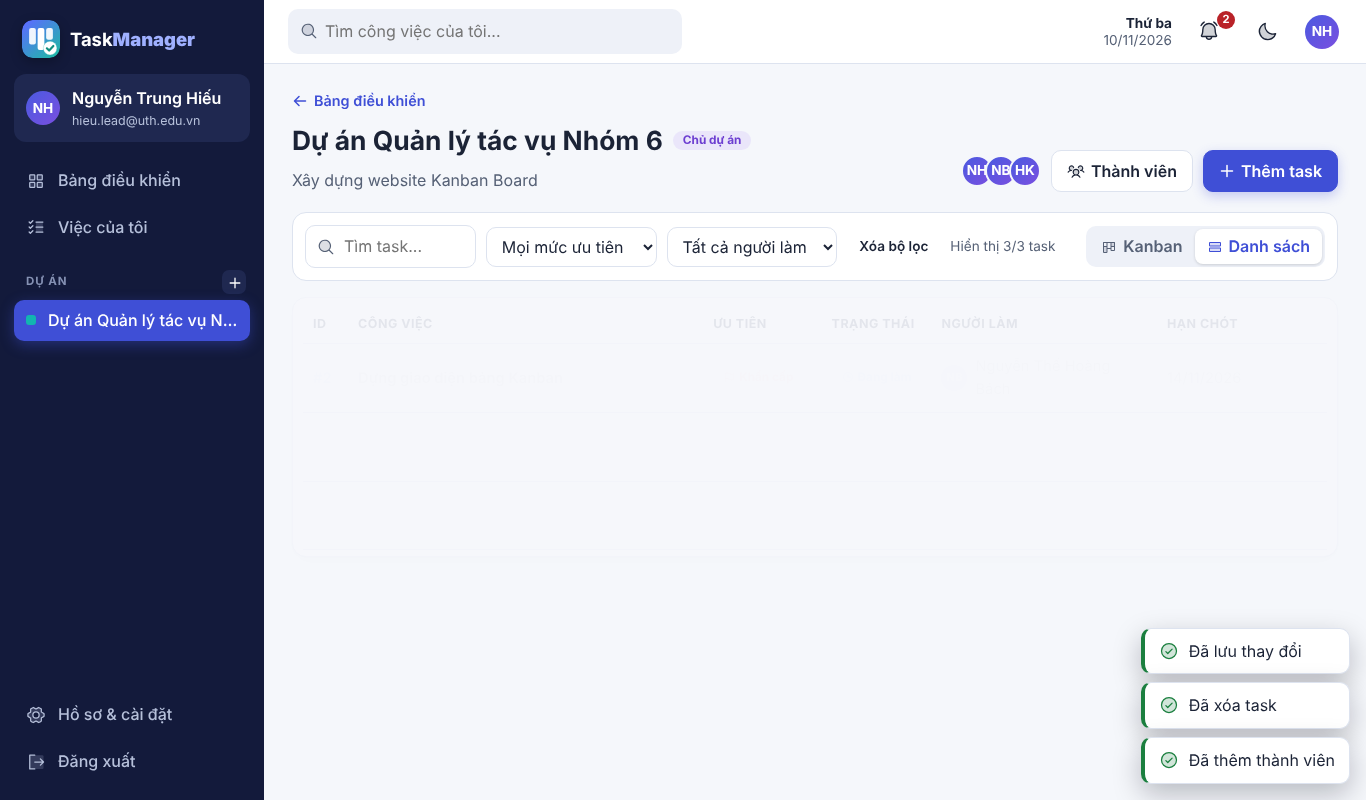
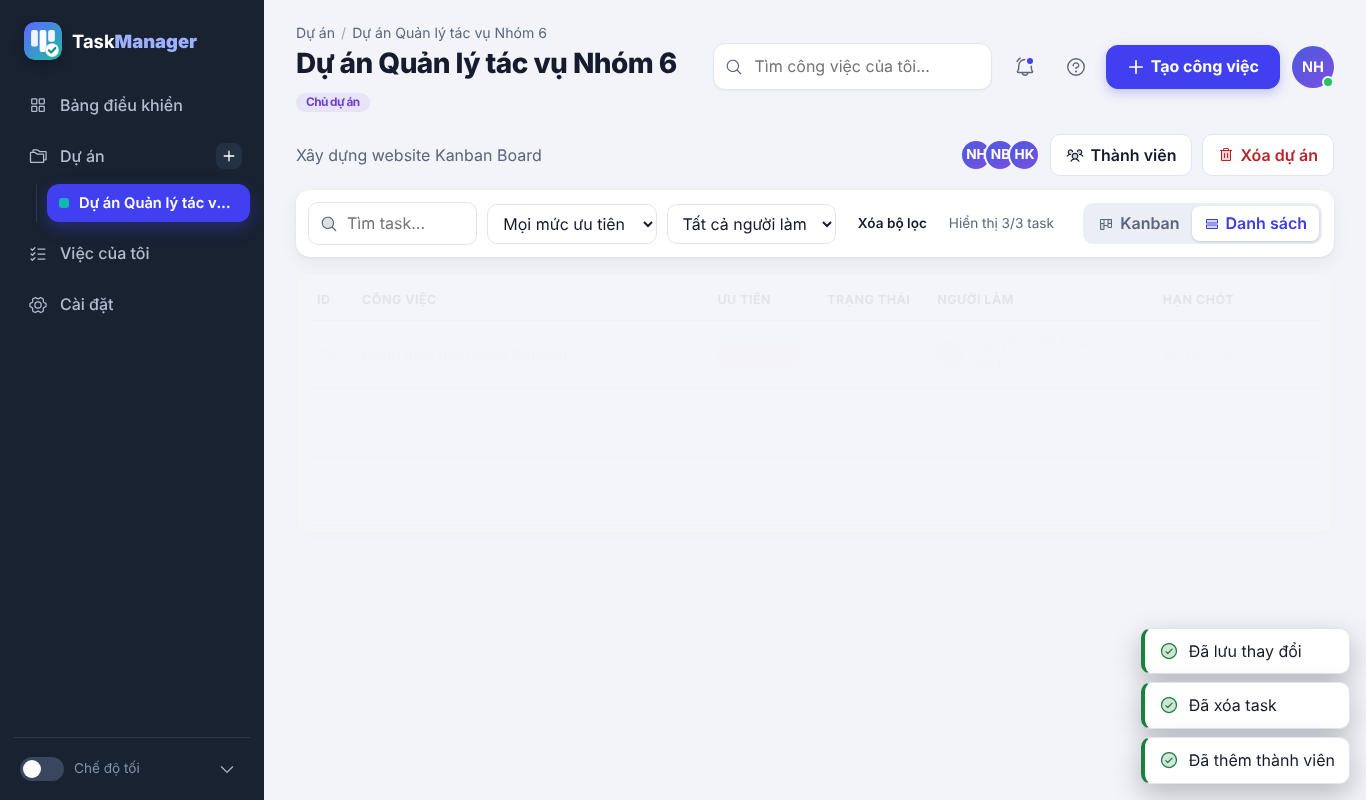
Add files via upload

diff --git a/frontend/css/style.css b/frontend/css/style.css
@@ -1,16 +1,16 @@
 /* ===== Design tokens ===== */
 :root{
-  --bg:#f5f7fb;--panel:#ffffff;--panel2:#eef1f8;--border:#dde3ef;--text:#1b2336;--muted:#566176;
-  --primary:#3f4fd6;--primary-btn:#3f4fd6;--primary-h:#3342b8;--primary-soft:rgba(63,79,214,.10);--on-primary:#fff;
+  --bg:#f3f4f9;--panel:#ffffff;--panel2:#eceef5;--border:#e1e5ee;--text:#161b2e;--muted:#5b657b;
+  --primary:#3d3de6;--primary-btn:#4040f0;--primary-h:#3232d4;--primary-soft:rgba(64,64,240,.10);--on-primary:#fff;
   --danger:#b92228;--ok:#1b7f3f;--warn:#975a00;--purple:#6d3fd1;--info:#1d5fd6;--teal:#0f8f84;--focus:#f59e0b;
-  --side:#131a3b;--side2:#1f2850;--side-text:#b6c0da;--side-muted:#8591b3;
+  --side:#192231;--side2:#243044;--side-text:#b4bdd0;--side-muted:#8591ab;
   --radius:14px;--shadow:0 1px 2px rgba(20,30,70,.05),0 6px 18px rgba(20,30,70,.07);
 }
 [data-theme="dark"]{
   --bg:#0b1020;--panel:#141a2e;--panel2:#1c2440;--border:#2a3556;--text:#e8ecf7;--muted:#9aa6c2;
   --primary:#8d9bff;--primary-btn:#5666e8;--primary-h:#6a79f0;--primary-soft:rgba(141,155,255,.15);--on-primary:#fff;
   --danger:#ff7b80;--ok:#52d27a;--warn:#f5b94a;--purple:#b69cff;--info:#7fb0ff;--teal:#2ed0cb;--focus:#fbbf24;
-  --side:#0a0e22;--side2:#161d3d;--side-text:#aeb8d0;--side-muted:#7c88a8;
+  --side:#0d1320;--side2:#18213a;--side-text:#aeb8d0;--side-muted:#7c88a8;
   --shadow:0 1px 2px rgba(0,0,0,.4),0 8px 22px rgba(0,0,0,.35);
 }
 *{box-sizing:border-box}
@@ -23,38 +23,10 @@ h1{font-size:1.65rem}h2{font-size:1.1rem}h3{font-size:1rem}
 
 /* ===== App shell: sidebar + main ===== */
 .app{display:grid;grid-template-columns:264px minmax(0,1fr);min-height:100vh}
-.sidebar{background:var(--side);color:var(--side-text);position:sticky;top:0;height:100vh;display:flex;flex-direction:column;padding:20px 14px 14px;overflow-y:auto}
-.side-brand{display:flex;align-items:center;gap:10px;color:#fff;font-weight:700;font-size:1.15rem;padding:0 8px 16px}
-.side-brand b{color:#9fb0ff}
 .logo-img{width:38px;height:38px;border-radius:11px;flex:none;display:block;box-shadow:0 4px 12px rgba(0,0,0,.25)}
-.side-user{display:flex;align-items:center;gap:12px;width:100%;text-align:left;border:0;background:var(--side2);color:#fff;border-radius:12px;padding:12px;cursor:pointer;margin-bottom:16px;font:inherit}
-.side-user:hover{background:rgba(255,255,255,.1)}
-.side-user .avatar{width:44px;height:44px;font-size:.95rem}
-.side-user .who{min-width:0}
-.side-user .name{font-weight:600;white-space:nowrap;overflow:hidden;text-overflow:ellipsis}
-.side-user .mail{font-size:.78rem;color:var(--side-text);white-space:nowrap;overflow:hidden;text-overflow:ellipsis}
-.side-link{display:flex;align-items:center;gap:12px;width:100%;padding:10px 12px;margin-bottom:2px;border-radius:10px;border:0;background:transparent;color:var(--side-text);font:inherit;font-weight:500;cursor:pointer;text-align:left;transition:.15s}
-.side-link:hover{background:var(--side2);color:#fff}
-.side-link.active{background:var(--primary-btn);color:#fff;box-shadow:0 4px 14px rgba(63,79,214,.4)}
-.side-link .ic{width:20px;text-align:center}
-.side-title{display:flex;justify-content:space-between;align-items:center;margin:18px 4px 6px 12px;font-size:.72rem;letter-spacing:.08em;color:var(--side-muted);font-weight:700}
-.side-add{border:0;background:var(--side2);color:#fff;width:24px;height:24px;border-radius:7px;cursor:pointer;font-size:1rem;line-height:1}
-.side-add:hover{background:var(--primary-btn)}
-.side-projects .side-link{padding:8px 12px}
 .pdot{width:10px;height:10px;border-radius:3px;flex:none}
-.side-spacer{flex:1;min-height:12px}
-.side-empty{padding:6px 12px;font-size:.85rem;color:var(--side-muted)}
 .main-col{min-width:0;display:flex;flex-direction:column}
-.topbar{position:sticky;top:0;z-index:30;height:64px;display:flex;align-items:center;gap:14px;padding:0 24px;background:var(--panel);border-bottom:1px solid var(--border)}
-.btn.menu-btn{display:none}
-.search{flex:1;max-width:460px;position:relative}
-.search input{padding-left:36px;background:var(--panel2);border-color:transparent;border-radius:10px}
-.search span{position:absolute;left:12px;top:50%;transform:translateY(-50%);opacity:.6}
-.topbar .grow{flex:1}
-.date-chip{font-size:.85rem;color:var(--muted);text-align:right;line-height:1.2}
-.date-chip b{display:block;color:var(--text)}
 .scrim{position:fixed;inset:0;background:rgba(2,6,23,.55);z-index:55}
-.container{padding:26px 28px 60px;max-width:1500px;width:100%}
 @media(max-width:900px){
   .app{grid-template-columns:minmax(0,1fr)}
   .sidebar{position:fixed;left:0;top:0;bottom:0;width:272px;transform:translateX(-102%);transition:transform .2s;z-index:60}
@@ -129,10 +101,6 @@ input:disabled,select:disabled,textarea:disabled{opacity:.7}
 .b-owner{background:rgba(139,92,246,.10);color:var(--purple)}
 .b-leader{background:rgba(245,159,0,.10);color:var(--warn)}
 .b-member{background:rgba(107,119,140,.10);color:var(--muted)}
-.p-low{background:rgba(47,179,68,.10);color:var(--ok)}
-.p-medium{background:rgba(63,79,214,.10);color:var(--primary)}
-.p-high{background:rgba(245,159,0,.10);color:var(--warn)}
-.p-urgent{background:rgba(229,72,77,.10);color:var(--danger)}
 .s-todo{background:rgba(100,116,139,.12);color:var(--muted)}
 .s-in_progress{background:rgba(59,130,246,.10);color:var(--info)}
 .s-review{background:rgba(139,92,246,.10);color:var(--purple)}
@@ -184,23 +152,8 @@ table.tbl{width:100%;border-collapse:collapse;font-size:.92rem}
 .view-toggle button{border:0;background:transparent;color:var(--muted);font:inherit;font-weight:600;padding:5px 12px;border-radius:8px;cursor:pointer}
 .view-toggle button.active{background:var(--panel);color:var(--primary);box-shadow:0 1px 3px rgba(0,0,0,.15)}
 .board{display:grid;grid-template-columns:repeat(4,minmax(228px,1fr));gap:16px;overflow-x:auto;padding-bottom:14px;align-items:start}
-.column{background:var(--panel2);border-radius:var(--radius);display:flex;flex-direction:column;max-height:calc(100vh - 270px);min-height:220px;border:1px solid var(--border)}
-.col-head{display:flex;align-items:center;justify-content:space-between;padding:11px 14px;background:var(--c);color:#fff;border-radius:calc(var(--radius) - 1px) calc(var(--radius) - 1px) 0 0;font-weight:700}
-.col-head .count{margin-left:8px;background:rgba(255,255,255,.28);border-radius:99px;padding:0 9px;font-size:.8rem}
-.col-head .btn{color:#fff;background:rgba(255,255,255,.18);border:0;width:28px;height:28px;padding:0}
-.col-head .btn:hover{background:rgba(255,255,255,.34);color:#fff}
 .col-body{padding:10px;display:flex;flex-direction:column;gap:10px;overflow-y:auto;flex:1;min-height:90px;transition:.15s}
 .col-body.drag-over{background:var(--primary-soft);outline:2px dashed var(--primary);outline-offset:-6px}
-.task{background:var(--panel);border:1px solid var(--border);border-left:4px solid var(--prc,var(--border));border-radius:10px;padding:11px 12px;cursor:grab;transition:.12s;box-shadow:0 1px 2px rgba(16,24,40,.05);overflow:hidden}
-.task:hover{box-shadow:0 6px 16px rgba(16,24,40,.13);transform:translateY(-1px)}
-.task.dragging{opacity:.4}
-.task.pr-urgent{--prc:var(--danger)}.task.pr-high{--prc:var(--warn)}.task.pr-medium{--prc:var(--primary)}.task.pr-low{--prc:var(--ok)}
-.task-top{display:flex;justify-content:space-between;align-items:center}
-.task-id{font-size:.78rem;color:var(--muted);font-weight:600}
-.task .title{font-weight:600;margin:7px 0 9px;word-break:break-word}
-.task .meta{display:flex;align-items:center;justify-content:space-between;gap:8px;font-size:.8rem;color:var(--muted)}
-.task .meta .left{display:flex;gap:10px;align-items:center;flex-wrap:wrap}
-.overdue-strip{margin:-11px -12px 9px;padding:3px 12px;background:#b92228;color:#fff;font-size:.74rem;font-weight:700}
 .due.overdue{color:var(--danger);font-weight:700}
 .due.soon{color:var(--warn);font-weight:700}
 .drop-line{height:3px;border-radius:3px;background:var(--primary);margin:-2px 0;pointer-events:none}
@@ -252,7 +205,6 @@ input:focus-visible,select:focus-visible,textarea:focus-visible{outline:3px soli
 .search .ic{position:absolute;left:12px;top:50%;transform:translateY(-50%);color:var(--muted);pointer-events:none}
 .icon-btn{width:42px;height:42px}
 .btn{min-height:40px}.btn.sm{min-height:34px}
-.col-head .btn{min-height:0}
 .stat .icon .ic{display:block}
 .empty-state{display:flex;flex-direction:column;align-items:center;gap:6px;text-align:center;padding:30px 16px;color:var(--text)}
 .es-ic{width:68px;height:68px;border-radius:50%;background:var(--primary-soft);color:var(--primary);display:grid;place-items:center;margin-bottom:6px}
@@ -309,12 +261,7 @@ input:focus-visible,select:focus-visible,textarea:focus-visible{outline:3px soli
 .btn.primary:hover{transform:translateY(-1px);box-shadow:0 8px 18px rgba(63,79,214,.34)}
 .btn.primary:active:not(:disabled){transform:scale(.96)}
 .btn .ic{transition:transform .28s var(--ease)}
-#btn-add:hover .ic,#btn-new-project:hover .ic,#btn-side-add:hover .ic,.side-add:hover .ic{transform:rotate(90deg)}
-.side-link{transition:background-color .2s,color .2s,transform .2s var(--ease),box-shadow .2s}
-.side-link:hover{transform:translateX(3px)}
-.side-link.active:hover{transform:none}
-.side-brand .logo-img{transition:transform .4s var(--ease-spring)}
-.side-brand:hover .logo-img{transform:rotate(-8deg) scale(1.08)}
+#btn-add:hover .ic,#btn-new-project:hover .ic,.side-add:hover .ic{transform:rotate(90deg)}
 .stat,.project-card{transition:transform .25s var(--ease),box-shadow .25s}
 .stat:hover{transform:translateY(-3px);box-shadow:0 10px 24px rgba(20,30,70,.13)}
 .avatar-stack .avatar{transition:transform .2s var(--ease)}
@@ -332,12 +279,9 @@ input:focus-visible,select:focus-visible,textarea:focus-visible{outline:3px soli
 #avatar-preview .avatar{animation:popIn .4s var(--ease-spring)}
 
 /* Kanban */
-.task{transition:transform .2s var(--ease),box-shadow .2s,opacity .2s}
-.task.dragging{opacity:.5;transform:rotate(2deg) scale(1.03);box-shadow:0 16px 30px rgba(20,30,70,.25)}
 .task.settle{animation:settle .6s ease-out}
 .task.leaving{animation:leave .22s var(--ease) forwards}
 .drop-line{animation:fadeIn .12s ease}
-.col-head .count{transition:transform .2s var(--ease-spring)}
 .comment.new{animation:fadeUp .4s var(--ease)}
 
 /* Hộp thoại, thông báo, chuông */
@@ -351,7 +295,6 @@ input:focus-visible,select:focus-visible,textarea:focus-visible{outline:3px soli
 .dot-badge.bump{animation:popIn .45s var(--ease-spring)}
 .bell.ring .ic{animation:wiggle .8s ease;transform-origin:50% 12%}
 .scrim{animation:fadeIn .2s ease}
-.sidebar{transition:transform .28s var(--ease)}
 .spin-in{animation:spinIn .45s var(--ease-spring)}
 
 /* Đổi sáng/tối: màu chuyển mượt (chỉ bật trong lúc đổi để không tốn hiệu năng) */
@@ -363,3 +306,127 @@ body.leaving main.container{animation:pageOut .14s ease forwards}
 body.leaving{pointer-events:none}
 @keyframes pageOut{to{opacity:0;transform:translateY(-6px)}}
 
+
+
+/* =====================================================================
+   GIAO DIỆN THEO MẪU: thanh bên tối kiểu viên thuốc, thanh trên có tiêu đề,
+   bảng Kanban thẻ trắng bo tròn. Đặt cuối file để ghi đè các quy tắc chung phía trên.
+   ===================================================================== */
+:root{--ok-soft:#c9f1da;--ok-ink:#14663a;--warn-soft:#fde9b8;--warn-ink:#8a5300;--bad-soft:#fcd0d0;--bad-ink:#a61b1b;--card-shadow:0 1px 3px rgba(22,27,60,.06),0 6px 18px rgba(22,27,60,.06)}
+[data-theme="dark"]{--ok-soft:rgba(82,210,122,.18);--ok-ink:#7be3a0;--warn-soft:rgba(245,185,74,.18);--warn-ink:#f5c46b;--bad-soft:rgba(255,123,128,.2);--bad-ink:#ff9a9e;--card-shadow:0 1px 2px rgba(0,0,0,.4),0 8px 20px rgba(0,0,0,.3)}
+.sr-only{position:absolute;width:1px;height:1px;overflow:hidden;clip:rect(0 0 0 0);white-space:nowrap}
+.container{padding:6px 32px 60px;max-width:1600px;width:100%}
+.page-sub{margin:0 0 16px}
+.greet-sub{margin-bottom:18px}
+
+/* --- Thanh bên --- */
+.sidebar{background:var(--side);color:var(--side-text);position:sticky;top:0;height:100vh;display:flex;flex-direction:column;padding:22px 14px 14px;overflow-y:auto}
+.side-brand{display:flex;align-items:center;gap:10px;color:#fff;font-weight:700;font-size:1.15rem;padding:0 10px 22px}
+.side-brand b{color:#9fb0ff}
+.side-nav{display:flex;flex-direction:column;gap:4px}
+.side-link{display:flex;align-items:center;gap:12px;width:100%;padding:11px 14px;border-radius:12px;border:0;background:transparent;color:var(--side-text);font:inherit;font-weight:500;cursor:pointer;text-align:left}
+.side-link:hover{background:var(--side2);color:#fff}
+.side-link.active{background:var(--primary-btn);color:#fff;font-weight:600;box-shadow:0 6px 16px rgba(64,64,240,.35)}
+.side-link.active:hover{background:var(--primary-btn)}
+.sidebar .ic [opacity]{display:none}                 /* chỉ giữ nét viền cho icon, giống mẫu */
+.side-row{position:relative}
+.side-row .side-link{padding-right:44px}
+.side-add{position:absolute;right:8px;top:50%;transform:translateY(-50%);border:0;background:var(--side2);color:#fff;width:26px;height:26px;border-radius:8px;cursor:pointer;display:grid;place-items:center}
+.side-add:hover{background:var(--primary-btn)}
+.side-projects{margin:0 0 4px 22px;padding-left:10px;border-left:1px solid rgba(255,255,255,.1);display:flex;flex-direction:column;gap:2px}
+.side-projects .side-link{padding:8px 12px;font-size:.92rem;gap:10px}
+.side-projects .plabel{white-space:nowrap;overflow:hidden;text-overflow:ellipsis}
+.pdot{width:10px;height:10px;border-radius:3px;flex:none}
+.side-empty{padding:6px 12px;font-size:.85rem;color:var(--side-muted)}
+.side-spacer{flex:1;min-height:16px}
+.side-foot{position:relative;display:flex;align-items:center;gap:10px;margin-top:10px;padding:14px 6px 0;border-top:1px solid rgba(255,255,255,.1)}
+.foot-label{font-size:.85rem;color:var(--side-muted)}
+.theme-switch{position:relative;width:44px;height:24px;border-radius:99px;border:0;background:#3a465e;cursor:pointer;padding:0;flex:none;transition:background-color .2s}
+.theme-switch .knob{position:absolute;top:3px;left:3px;width:18px;height:18px;border-radius:50%;background:#fff;transition:transform .22s var(--ease,ease)}
+.theme-switch[aria-checked="true"]{background:var(--primary-btn)}
+.theme-switch[aria-checked="true"] .knob{transform:translateX(20px)}
+.foot-more{margin-left:auto;width:34px;height:34px;border-radius:10px;border:0;background:transparent;color:var(--side-text);cursor:pointer;display:grid;place-items:center}
+.foot-more:hover{background:var(--side2);color:#fff}
+.foot-more[aria-expanded="true"] .ic{transform:rotate(180deg)}
+.user-menu{position:absolute;left:0;right:0;bottom:calc(100% + 10px);background:var(--side2);border:1px solid rgba(255,255,255,.08);border-radius:14px;padding:8px;box-shadow:0 14px 30px rgba(0,0,0,.4);z-index:5;animation:scaleIn .18s var(--ease,ease);transform-origin:bottom center}
+.um-head{display:flex;gap:10px;align-items:center;padding:8px 8px 10px;margin-bottom:4px;border-bottom:1px solid rgba(255,255,255,.08)}
+.um-head .who{min-width:0}.um-head .name{color:#fff;font-weight:600;white-space:nowrap;overflow:hidden;text-overflow:ellipsis}
+.um-head .mail{font-size:.78rem;color:var(--side-text);white-space:nowrap;overflow:hidden;text-overflow:ellipsis}
+
+/* --- Thanh trên: đường dẫn + tiêu đề lớn bên trái; tìm kiếm, chuông, trợ giúp, nút chính, avatar bên phải --- */
+.topbar{position:sticky;top:0;z-index:30;display:flex;align-items:center;gap:12px;padding:22px 32px 16px;background:var(--bg)}
+.btn.menu-btn{display:none}
+.top-title{min-width:0}
+.crumb{display:flex;align-items:center;gap:6px;font-size:.88rem;color:var(--muted);white-space:nowrap}
+.crumb a{color:var(--muted)}.crumb a:hover{color:var(--primary)}
+.crumb .cur{color:var(--muted);overflow:hidden;text-overflow:ellipsis;max-width:320px}
+.crumb .sep{opacity:.55}
+.top-title h1{margin:2px 0 0;font-size:1.75rem;font-weight:800;letter-spacing:-.02em;display:flex;align-items:center;gap:12px;flex-wrap:wrap}
+.top-title h1 .ttl{min-width:0;overflow-wrap:anywhere;display:-webkit-box;-webkit-line-clamp:2;-webkit-box-orient:vertical;overflow:hidden}
+.top-title{flex:0 1 auto;max-width:48%}
+.topbar .grow{flex:1}
+.search{flex:0 1 330px;position:relative}
+.search input{padding:10px 14px 10px 40px;background:var(--panel);border:1px solid var(--border);border-radius:12px;box-shadow:0 1px 2px rgba(22,27,60,.04)}
+.topbar .ic [opacity]{display:none}
+.topbar .icon-btn,.bell{width:42px;height:42px;padding:0;border-radius:12px;color:var(--muted)}
+.bell{position:relative;display:inline-flex;align-items:center;justify-content:center}
+.dot-badge{position:absolute;top:9px;right:10px;width:10px;height:10px;min-width:0;padding:0;border-radius:50%;background:var(--primary-btn);border:2px solid var(--bg);font-size:0}
+.top-action{white-space:nowrap;flex:none;min-height:44px;padding:0 20px;border-radius:12px;font-weight:700}
+.me-btn{position:relative;border:0;background:transparent;padding:0;border-radius:50%;cursor:pointer;display:inline-flex}
+.me-btn .avatar{width:42px;height:42px;font-size:.95rem}
+.online-dot{position:absolute;right:0;bottom:0;width:12px;height:12px;border-radius:50%;background:#22c55e;border:2px solid var(--bg)}
+.help-list{display:grid;gap:12px;padding-top:12px}.help-item b{display:block}
+
+/* --- Thanh công cụ của bảng --- */
+.board-bar{display:flex;flex-wrap:wrap;align-items:center;justify-content:space-between;gap:12px;margin:0 0 14px}
+.bar-actions{display:flex;gap:10px;align-items:center;flex-wrap:wrap}
+.toolbar{border:0;box-shadow:var(--card-shadow);border-radius:14px}
+
+/* --- Nhãn ưu tiên: đỏ = Cao, cam = Trung bình, xanh = Thấp (đúng mẫu) --- */
+.p-urgent{background:#c62828;color:#fff}
+.p-high{background:var(--bad-soft);color:var(--bad-ink)}
+.p-medium{background:var(--warn-soft);color:var(--warn-ink)}
+.p-low{background:var(--ok-soft);color:var(--ok-ink)}
+.badge.p-urgent,.badge.p-high,.badge.p-medium,.badge.p-low{padding:3px 12px;font-size:.78rem}
+
+/* --- Bảng Kanban --- */
+.board{display:grid;grid-template-columns:repeat(4,minmax(215px,1fr));gap:18px;overflow-x:auto;padding:4px 4px 16px;align-items:start}
+.column{display:flex;flex-direction:column;max-height:calc(100vh - 300px);min-height:200px}
+.col-head{display:flex;align-items:center;justify-content:space-between;padding:0 2px 12px;font-weight:700;font-size:1.02rem;color:var(--text)}
+.col-head .count{margin-left:6px;font-weight:600;color:var(--muted)}
+.col-head .btn{width:32px;height:32px;min-height:0;padding:0;border-radius:9px;background:var(--panel2);border:0;color:var(--muted)}
+.col-head .btn:hover{background:var(--primary-soft);color:var(--primary)}
+.col-body{padding:4px;gap:14px;border-radius:14px}
+.task{background:var(--panel);border:0;border-radius:16px;padding:16px;cursor:grab;box-shadow:var(--card-shadow);overflow:hidden}
+.task:hover{box-shadow:0 10px 26px rgba(22,27,60,.13);transform:translateY(-2px)}
+.task.dragging{opacity:.5}
+.t-head{display:flex;justify-content:space-between;align-items:flex-start;gap:10px}
+.task .title{font-weight:700;font-size:1rem;line-height:1.35;word-break:break-word;margin:0}
+.task .desc{margin:8px 0 0;color:var(--muted);font-size:.9rem;line-height:1.45;display:-webkit-box;-webkit-line-clamp:2;-webkit-box-orient:vertical;overflow:hidden}
+.chips{margin-top:12px;display:flex;gap:6px;flex-wrap:wrap}
+.chip{display:inline-flex;padding:4px 12px;border-radius:10px;background:var(--panel2);color:var(--muted);font-size:.82rem;font-weight:600}
+.meta-line{margin-top:10px;color:var(--muted);font-size:.85rem}
+.task .meta{display:flex;align-items:center;justify-content:space-between;gap:8px;margin-top:12px;font-size:.85rem;color:var(--muted);flex-wrap:wrap}
+.due.overdue{color:var(--danger);font-weight:700}
+.due.soon{color:var(--warn);font-weight:700}
+.done-check{flex:none;width:26px;height:26px;border-radius:50%;background:#1fa463;color:#fff;display:grid;place-items:center}
+.done-check .ic{display:block}
+
+/* --- Thẻ dự án trên bảng điều khiển: nút xóa --- */
+.project-card .row-r{display:flex;align-items:center;gap:4px;flex:none}
+.proj-del{width:34px;height:34px;min-height:0;color:var(--muted)}
+.proj-del:hover{color:var(--danger);background:var(--bad-soft)}
+
+@media(max-width:1100px){.search{flex-basis:220px}}
+@media(max-width:900px){
+  .sidebar{position:fixed;left:0;top:0;bottom:0;width:272px;transform:translateX(-102%);z-index:60;transition:transform .28s var(--ease,ease)}
+  .sidebar.open{transform:none}
+  .btn.menu-btn{display:inline-flex}
+  .topbar{padding:14px 14px 10px;gap:8px}
+  .top-title h1{font-size:1.35rem}.crumb{display:none}
+  .top-help{display:none}
+  .top-action{width:42px;min-height:42px;padding:0}.top-action .lbl{display:none}
+  .container{padding:4px 14px 50px}
+  .board{grid-template-columns:repeat(4,minmax(260px,82vw))}
+}
+@media(max-width:700px){.search{display:none}}

diff --git a/frontend/board.html b/frontend/board.html
@@ -13,16 +13,12 @@
     <div class="main-col">
       <header id="topbar"></header>
       <main class="container">
-        <a href="dashboard.html" class="back-link"><i data-icon="arrow-left" data-size="16"></i> Bảng điều khiển</a>
-        <div class="page-head" style="margin-top:8px">
-          <div>
-            <h1 id="p-name" style="display:flex;align-items:center;gap:10px;flex-wrap:wrap">Đang tải...</h1>
-            <div class="muted" id="p-desc"></div>
-          </div>
-          <div style="display:flex;gap:10px;align-items:center;flex-wrap:wrap">
+        <div class="board-bar">
+          <div class="muted" id="p-desc"></div>
+          <div class="bar-actions">
             <div class="avatar-stack" id="p-team"></div>
             <button class="btn" id="btn-members"><i data-icon="users" data-size="18"></i> Thành viên</button>
-            <button class="btn primary" id="btn-add"><i data-icon="plus" data-size="16"></i> Thêm task</button>
+            <button class="btn danger hidden" id="btn-delete-project"><i data-icon="trash" data-size="16"></i> Xóa dự án</button>
           </div>
         </div>
 

diff --git a/frontend/dashboard.html b/frontend/dashboard.html
@@ -13,13 +13,7 @@
     <div class="main-col">
       <header id="topbar"></header>
       <main class="container">
-        <div class="page-head">
-          <div>
-            <h1 id="hello">Xin chào</h1>
-            <div class="greet-sub" id="hello-sub">Tổng quan công việc của bạn trên tất cả dự án.</div>
-          </div>
-          <button class="btn primary" id="btn-new-project"><i data-icon="plus" data-size="16"></i> Dự án mới</button>
-        </div>
+        <div class="greet-sub" id="hello-sub">Tổng quan công việc của bạn trên tất cả dự án.</div>
 
         <section class="grid stats" id="stats"></section>
 
@@ -35,7 +29,7 @@
           </div>
         </section>
 
-        <h2>Dự án của tôi</h2>
+        <h2 id="du-an">Dự án của tôi</h2>
         <section class="grid projects" id="projects"></section>
       </main>
     </div>

diff --git a/README.md b/README.md
@@ -46,6 +46,9 @@ npm install
 cp .env.example .env        # rồi sửa DB_PASSWORD, JWT_SECRET trong file .env
                             # (CSDL cũ tự được nâng cấp khi server khởi động - không cần import lại database.sql)
 
+# 2b. Bật gửi email quên mật khẩu: mở backend/.env, điền SMTP_USER + SMTP_PASS (Mật khẩu ứng dụng Gmail),
+#     APP_URL, và đặt RESET_SHOW_LINK=false. Thử ngay:  npm run test-mail -- email_cua_ban@gmail.com
+
 # 3. Nạp tài khoản mẫu chuẩn (mật khẩu bcrypt thật) + vài task demo
 npm run seed
 
@@ -67,7 +70,7 @@ npm start                   # mở http://localhost:5000
 - **Sắp xếp thứ tự task trong cột:** kéo thả để đổi cột *và* chèn đúng vị trí (vạch xanh báo chỗ thả); thứ tự được lưu và giữ nguyên sau khi tải lại.
 - **Thông báo thời gian thực** (Server-Sent Events, không cần thư viện ngoài): chuông 🔔 + số chưa đọc + toast khi được giao việc, task đổi trạng thái, có bình luận mới, được thêm vào dự án. Bảng Kanban của các thành viên khác **tự cập nhật** khi có người thay đổi task.
 - **Hồ sơ cá nhân:** tải **ảnh đại diện** (tự cắt vuông + nén ở trình duyệt, server kiểm tra "chữ ký" file, chặn SVG), đổi họ tên, đổi mật khẩu.
-- **Quên mật khẩu:** liên kết đặt lại dùng 1 lần, hết hạn sau 1 giờ, DB chỉ lưu bản băm SHA-256 của token, giới hạn 5 lần/15 phút, không lộ email nào tồn tại. Có chế độ demo (hiện liên kết ngay trên trang) hoặc gửi email thật qua SMTP.
+- **Quên mật khẩu:** liên kết đặt lại dùng 1 lần, hết hạn sau 1 giờ, DB chỉ lưu bản băm SHA-256 của token, giới hạn 5 lần/15 phút, không lộ email nào tồn tại. Gửi email thật (có nút bấm) qua Gmail SMTP hoặc Brevo (HTTPS); có chế độ demo (hiện liên kết ngay trên trang) khi `RESET_SHOW_LINK=true`.
 - **Logo + bộ icon SVG riêng** (không dùng emoji): logo thiết kế riêng (3 cột Kanban + dấu tick), icon Phosphor Icons (MIT) kiểu hai tông màu, tự đổi màu theo giao diện sáng/tối.
 - **Thân thiện với người dùng:** lời chào theo giờ + tóm tắt việc hôm nay, trạng thái rỗng có hướng dẫn, khung chờ (skeleton) khi tải, huy hiệu có icon kèm chữ (không chỉ dựa vào màu), giao diện tự theo chế độ sáng/tối của hệ điều hành.
 - **Trợ năng (WCAG AA):** màu chữ/nút đạt tỉ lệ tương phản ≥ 4.5:1 ở cả hai giao diện (có test tự động), vòng focus rõ khi dùng bàn phím, liên kết "Bỏ qua điều hướng", nút bấm ≥ 40px, tôn trọng `prefers-reduced-motion`.
